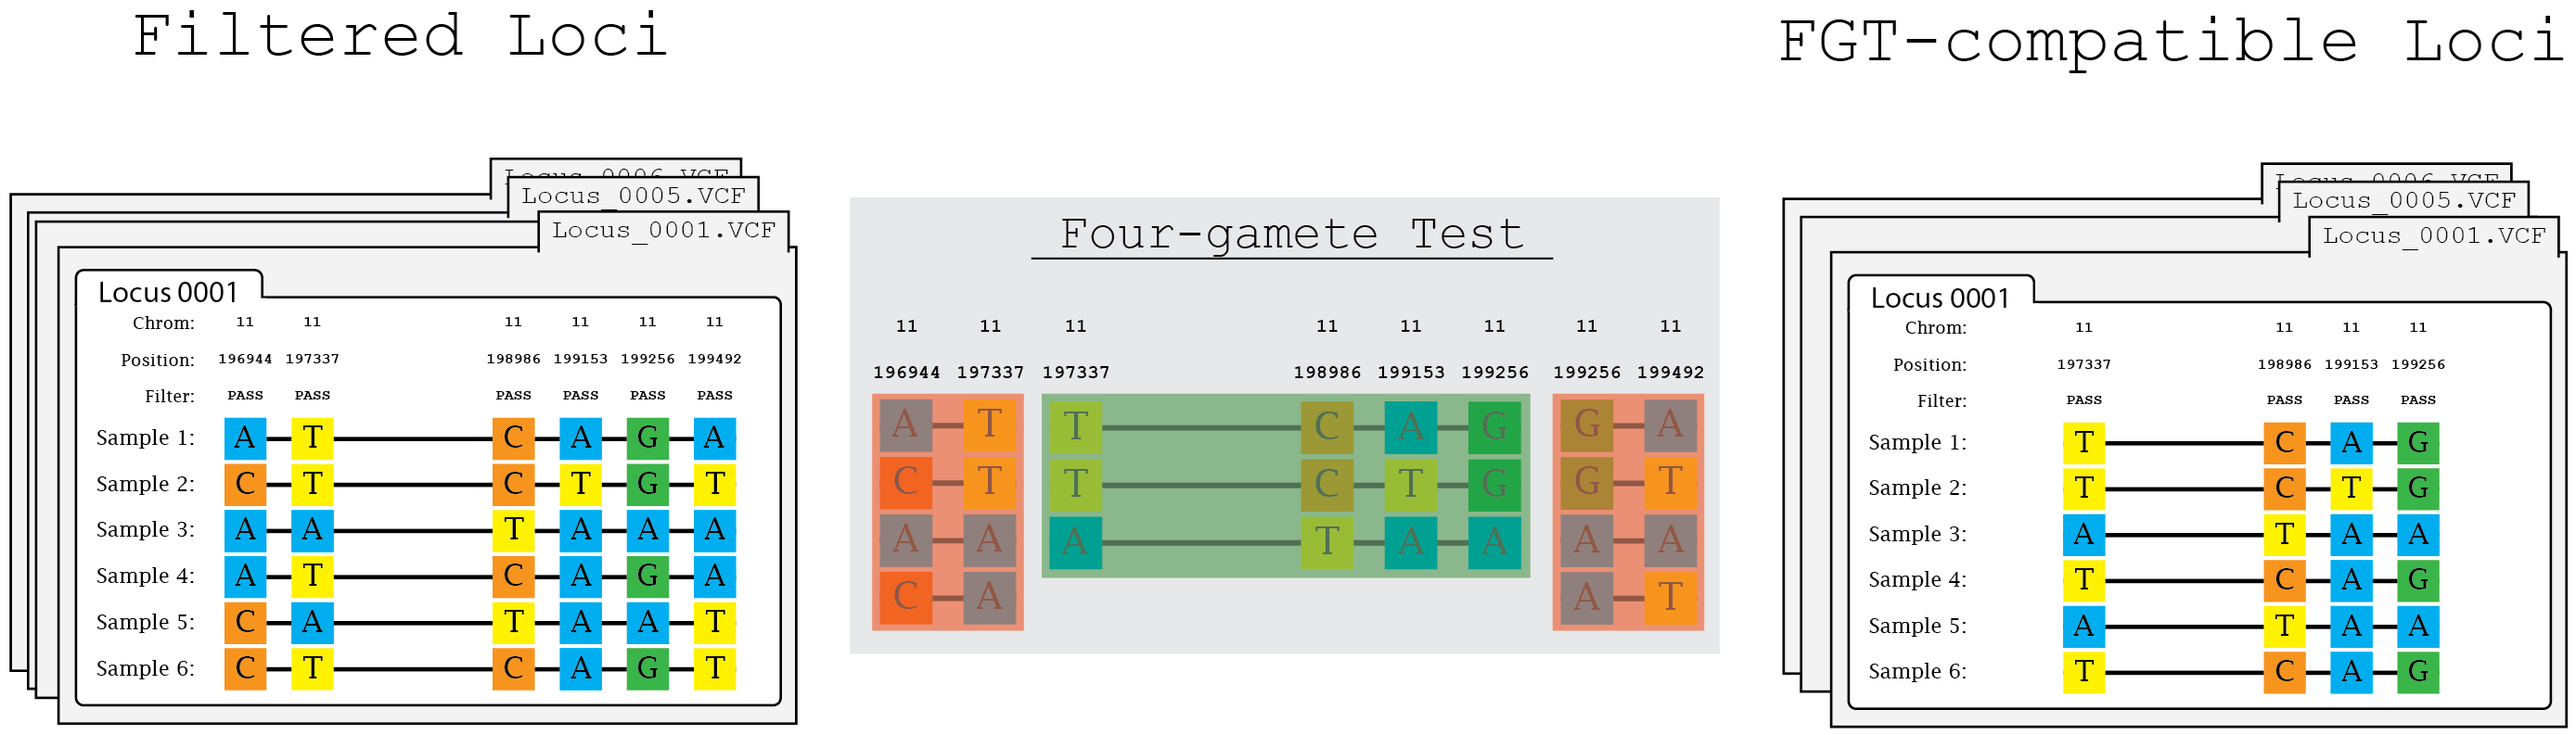
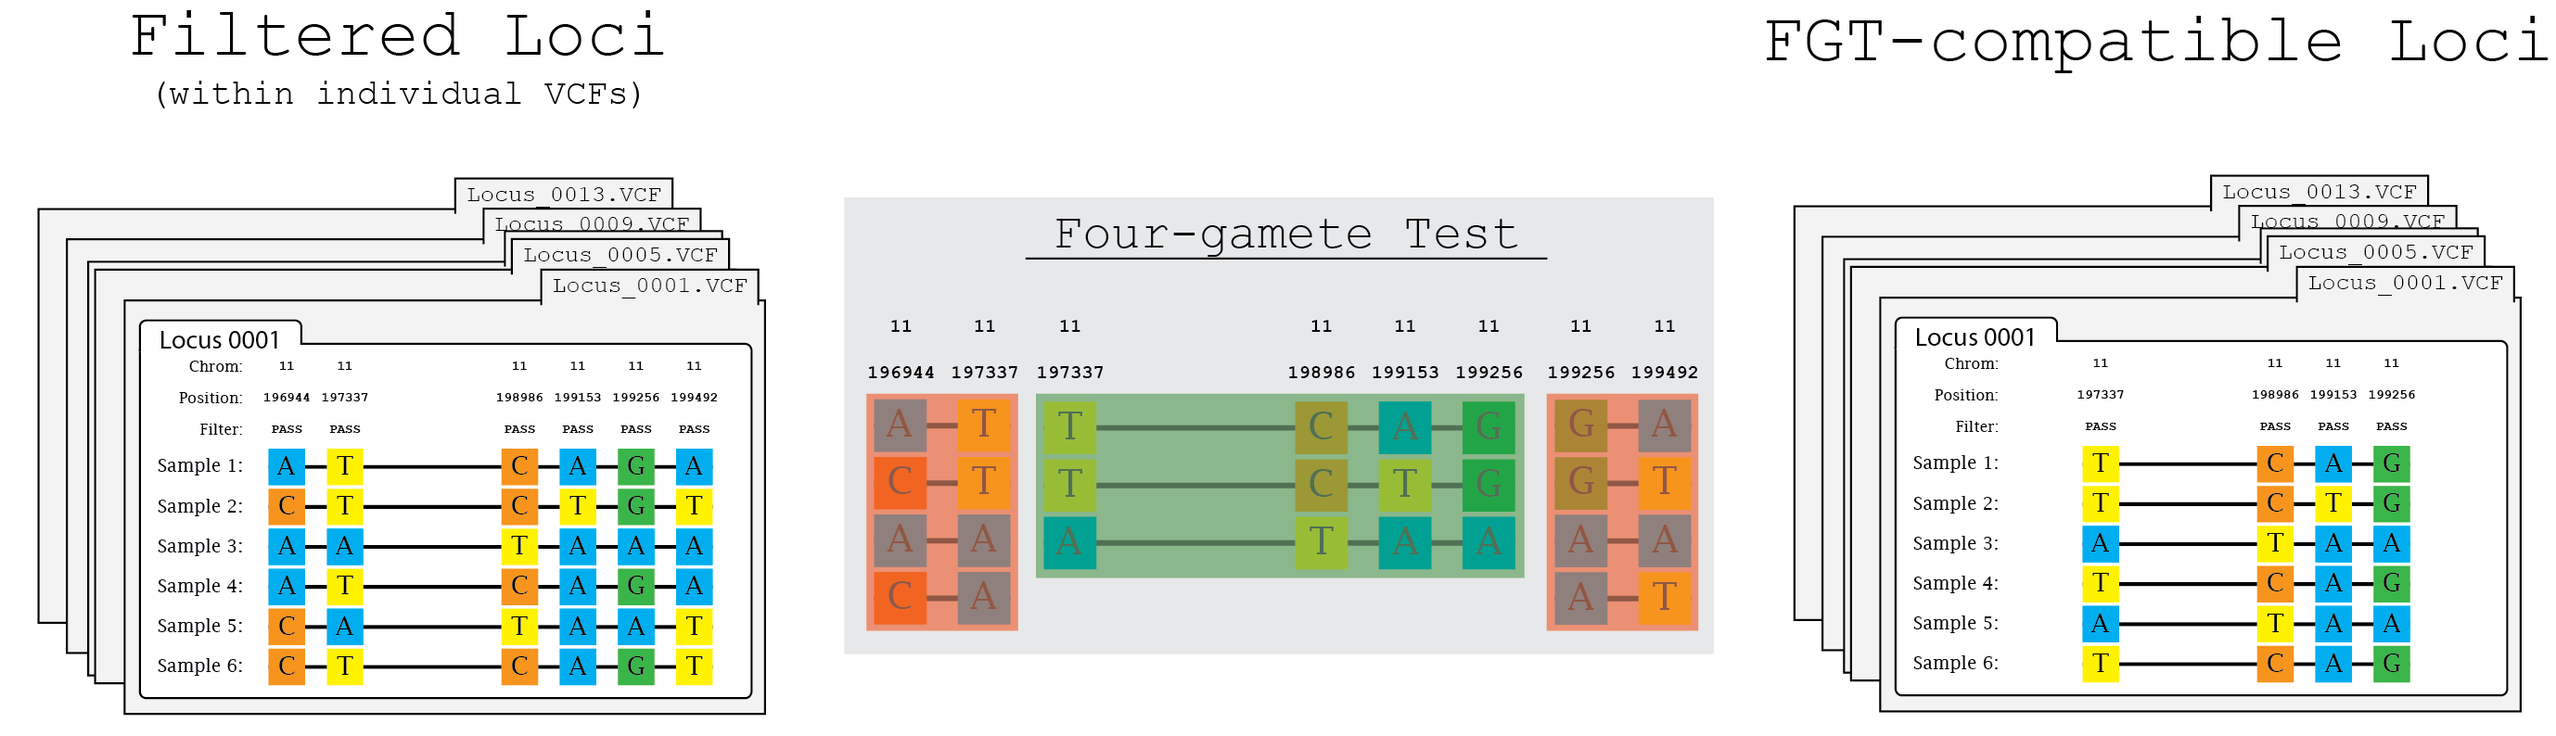
Updated docs. Added figure to loci filter

diff --git a/pgpipe/informative_loci_filter.py b/pgpipe/informative_loci_filter.py
@@ -1,19 +1,27 @@
 #!/usr/bin/env python
-'''
-    Given a BED file and a VCF file, will find regions in the VCF that have
-    a certain number of variant sites meeting specified criteria.
+''' 
 
-    This function checks to make sure that regions specified by other means
-    have enough sites to be considered informative in either the four-gamete 
-    test or an IM run. Because many variants are not considered useful in 
-    these situations, filters are provided for removing sites with missing 
-    data, non-biallelic sites, indels, CpGs, and singletons from determining
-    if there are a sufficient number of sites in the region. Output is either
-    a BED file of a set number of random regions that pass the criteria, or a 
-    file with all regions that pass. It can also remove regions that are below
-    a minimum specified length. If a model file is specified, only the 
-    individuals in the selected population will be considered for singleton and
-    missing data filters.
+    This function checks to make sure that a locus has enough sites to be 
+    considered informative in either the four-gamete test or an IM run. 
+    Given a BED file and a VCF file, informative_loci_filter will find regions 
+    in the VCF that have a specified number of variant sites.
+
+    .. image:: ../../PPP_assets/PPP_Loci_Filter.png
+        :width: 100 %
+        :align: center
+
+    In this illustration of the locus filtering process, locus_0004 is
+    removed due to only having three variant sites (highlighted in green)
+    when the threshold is set to four.
+
+    Because many variants are not considered useful in these situations, filters 
+    are provided for removing sites with missing data, non-biallelic sites, 
+    indels, CpGs, and singletons from determining if there are a sufficient 
+    number of sites in the region. Output is either a BED file of a set number 
+    of random regions that pass the criteria, or a file with all regions that pass. 
+    It can also remove regions that are below a minimum specified length. If a 
+    model file is specified, only the individuals in the selected population will 
+    be considered for singleton and missing data filters.
 
     ###############
     Input Arguments
